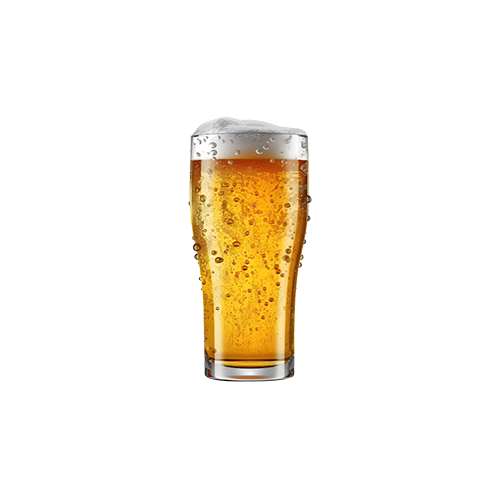
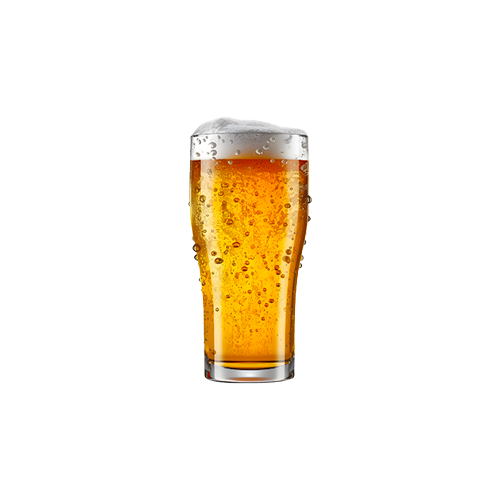
update sito e assets

Changed region(s): [[0.36, 0.3, 0.63, 0.78], [0.36, 0.27, 0.42, 0.3]]

diff --git a/menu.js b/menu.js
@@ -37,8 +37,10 @@ const menu = [ //Menù completo 11/08/2025
     {
         categoria: "Birre",
         prodotti: [
-            { nome: "Birra alla spina (piccola)", prezzo: 2.5, immagine: "img/birre/birrapiccina.png", allergeni: [] },
-            { nome: "Birra alla spina (media)", prezzo: 3.5, immagine: "img/birre/birramedia.png", allergeni: [] },
+            { nome: "Birra alla spina bionda (piccola)", prezzo: 2.5, immagine: "img/birre/birrapiccina.png", allergeni: [] },
+            { nome: "Birra alla spina rossa (piccola)", prezzo: 2.5, immagine: "img/birre/birrarossapiccina.png", allergeni: [] },
+            { nome: "Birra alla spina bionda (media)", prezzo: 3.5, immagine: "img/birre/birramedia.png", allergeni: [] },
+            { nome: "Birra alla spina rossa (media)", prezzo: 3.5, immagine: "img/birre/birrarossamedia.png", allergeni: [] },
             { nome: "Birra Corona", prezzo: 2.5, immagine: "img/birre/corona.png", allergeni: [] },
             { nome: "Birra Moretti", prezzo: 2.5, immagine: "img/birre/moretti.png", allergeni: [] },
             { nome: "Birra Icnusa non filtata", prezzo: 3.5, immagine: "img/birre/ichnusa.png", allergeni: [] },

diff --git a/styles.css b/styles.css
@@ -711,7 +711,7 @@ strong {
 .filters {
   position: sticky;
   top: 0;
-  z-index: 2;
+  z-index: 7;
   display: flex;
   flex-wrap: wrap;
   align-items: center;
@@ -804,7 +804,7 @@ strong {
   z-index: 6;
   justify-content: center;
   min-height: 3.6rem;
-  background: var(--filters-bg);
+  background: transparent;
   border-top: 1px solid var(--filters-border);
   box-shadow: 0 14px 28px var(--shadow-soft);
   opacity: 0;
@@ -1317,6 +1317,7 @@ strong {
 
 .order__detail {
   font-size: 0.95rem;
+  flex: 1;
   min-width: 0;
   display: flex;
   align-items: flex-start;
